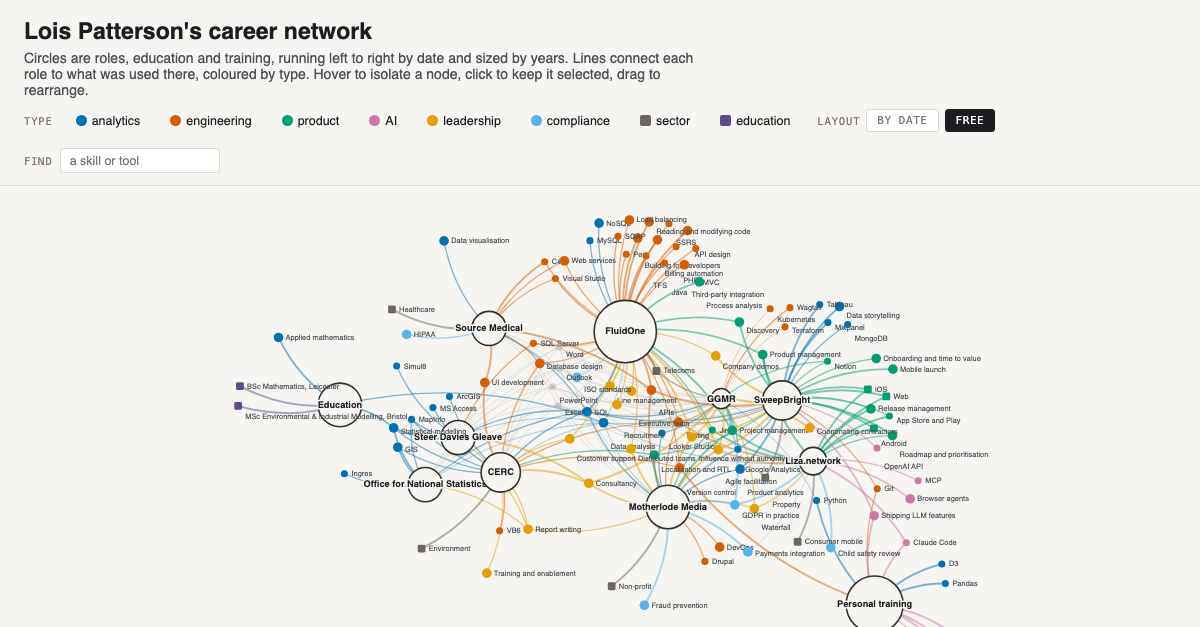
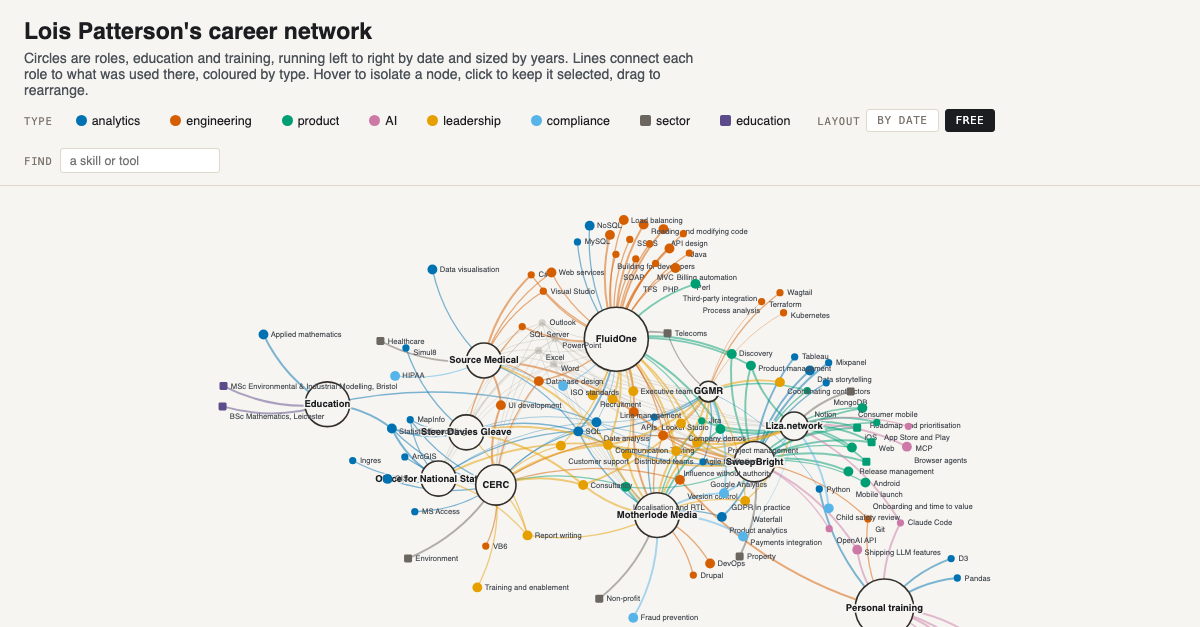
Add communication to every job

Changed region(s): [[0.185, 0.3333, 0.8325, 1.0], [0.37, 0.3636, 0.4317, 0.3939]]

diff --git a/index.html b/index.html
@@ -813,6 +813,13 @@ const DATA = {
    "roles": 1
   },
   {
+   "id": "communication",
+   "label": "Communication",
+   "kind": "skill",
+   "group": "leadership",
+   "roles": 9
+  },
+  {
    "id": "reportwriting",
    "label": "Report writing",
    "kind": "skill",
@@ -1783,6 +1790,51 @@ const DATA = {
    "role": "liza",
    "node": "outlook",
    "strength": 1
+  },
+  {
+   "role": "ons",
+   "node": "communication",
+   "strength": 3
+  },
+  {
+   "role": "steer",
+   "node": "communication",
+   "strength": 3
+  },
+  {
+   "role": "cerc",
+   "node": "communication",
+   "strength": 3
+  },
+  {
+   "role": "source",
+   "node": "communication",
+   "strength": 3
+  },
+  {
+   "role": "fluidone",
+   "node": "communication",
+   "strength": 3
+  },
+  {
+   "role": "motherlode",
+   "node": "communication",
+   "strength": 3
+  },
+  {
+   "role": "ggmr",
+   "node": "communication",
+   "strength": 3
+  },
+  {
+   "role": "sweepbright",
+   "node": "communication",
+   "strength": 3
+  },
+  {
+   "role": "liza",
+   "node": "communication",
+   "strength": 3
   },
   {
    "role": "liza",
